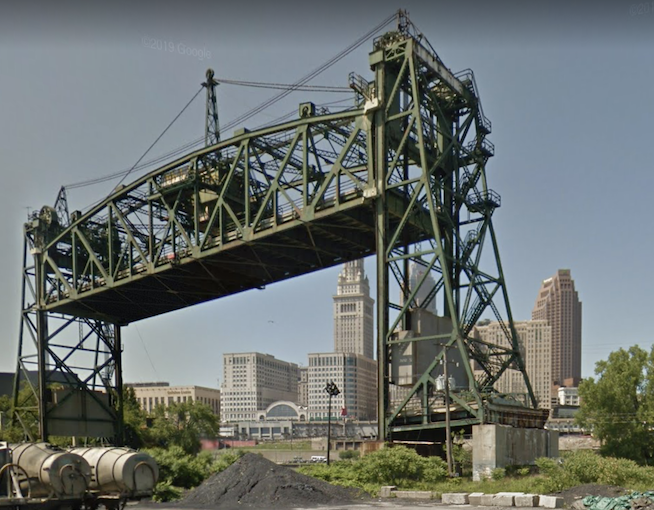
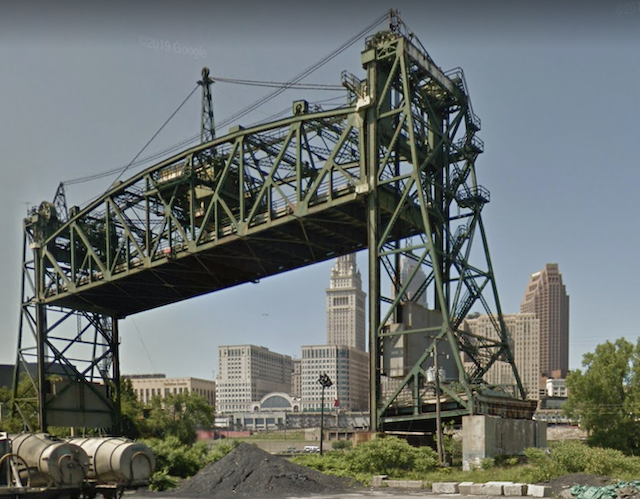
Standardized image sizes

Changed region(s): [[0.5938, 0.8417, 0.625, 0.8717], [0.1562, 0.6613, 0.1875, 0.6914]]

diff --git a/prototypesModeled/prototypesModeled.md b/prototypesModeled/prototypesModeled.md
@@ -18,10 +18,9 @@
 |![](./gradeCrossingToModernLift.png) |![](../prototypeInspiration/Screen18.png) |
 |![](../prototypeInspiration/curveToLiftBridge.png)| ![](./modernLiftBridgeSide.png) |
 
-| Double Track Truss Lift      |
-|------------------------------|
-|![](../prototypeInspiration/Screen20.png)|
-|![](./doubleTrackTrussLift_.png)|
+| Double Track Truss Lift      |                              |
+|------------------------------|------------------------------|
+|![](./doubleTrackTrussLift_p.png)|![](./doubleTrackTrussLift_.png)|
 
 | Urban Tunnel      |
 |------------------------------|
